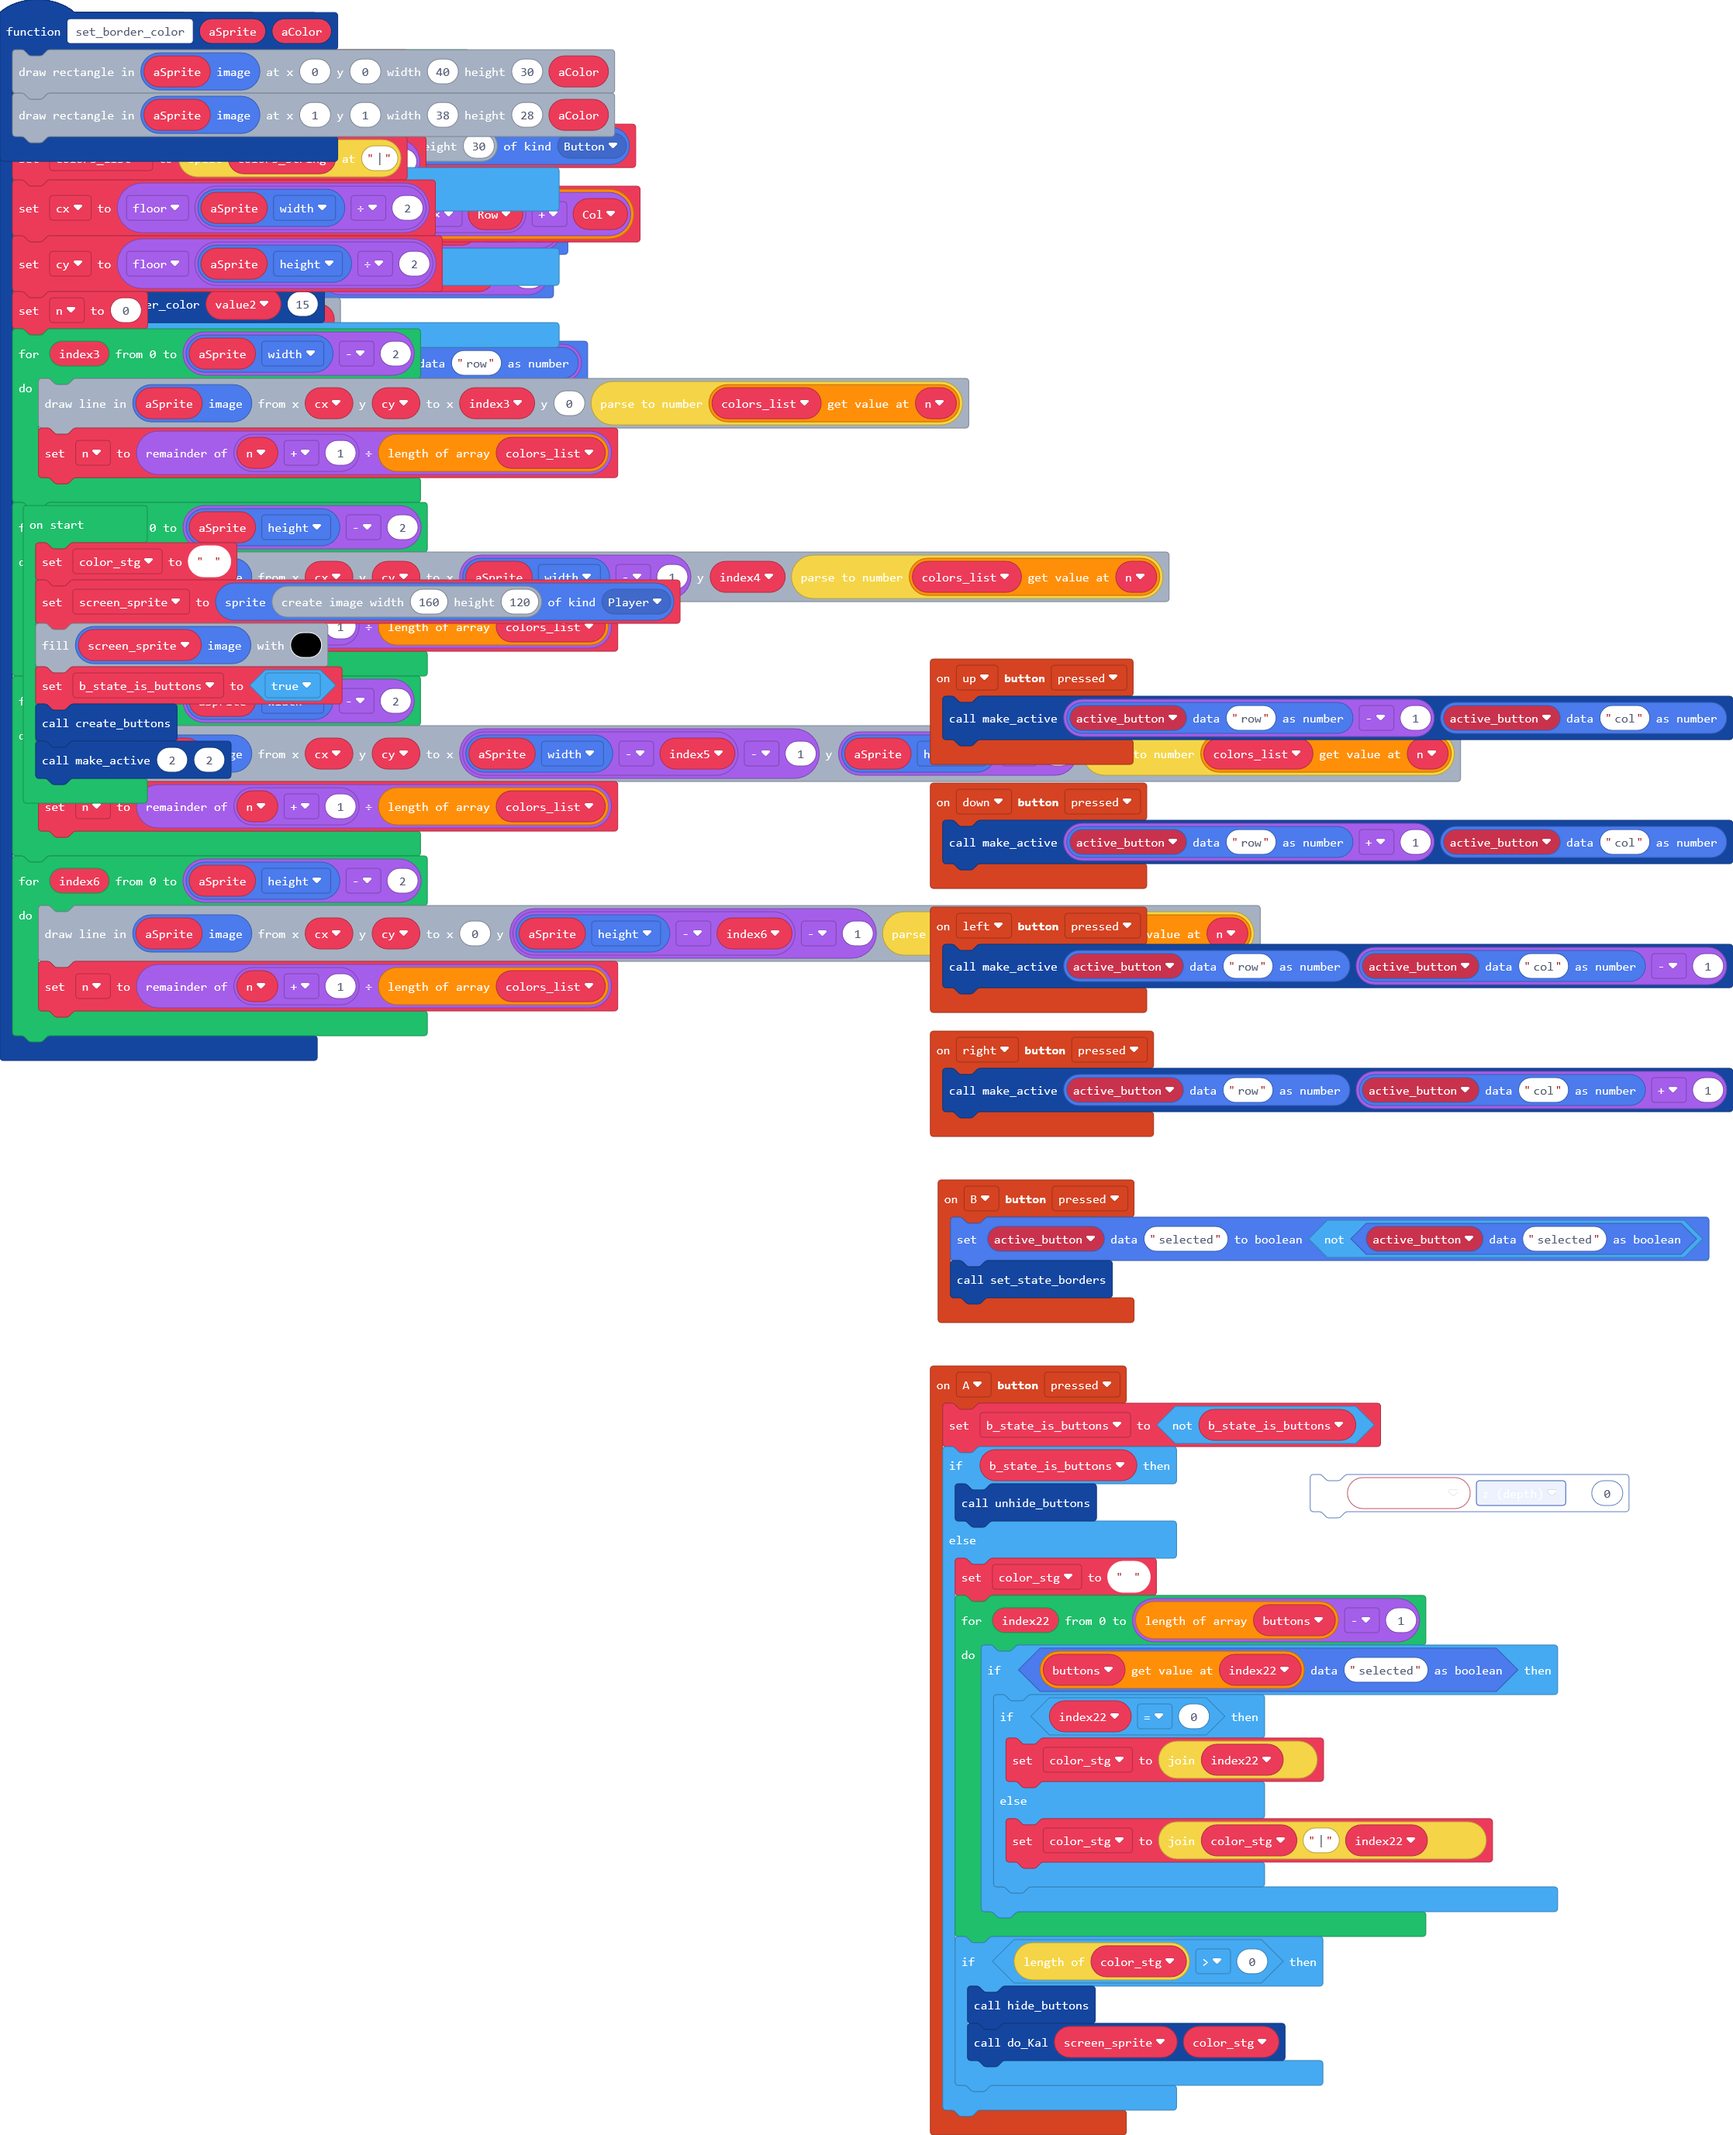
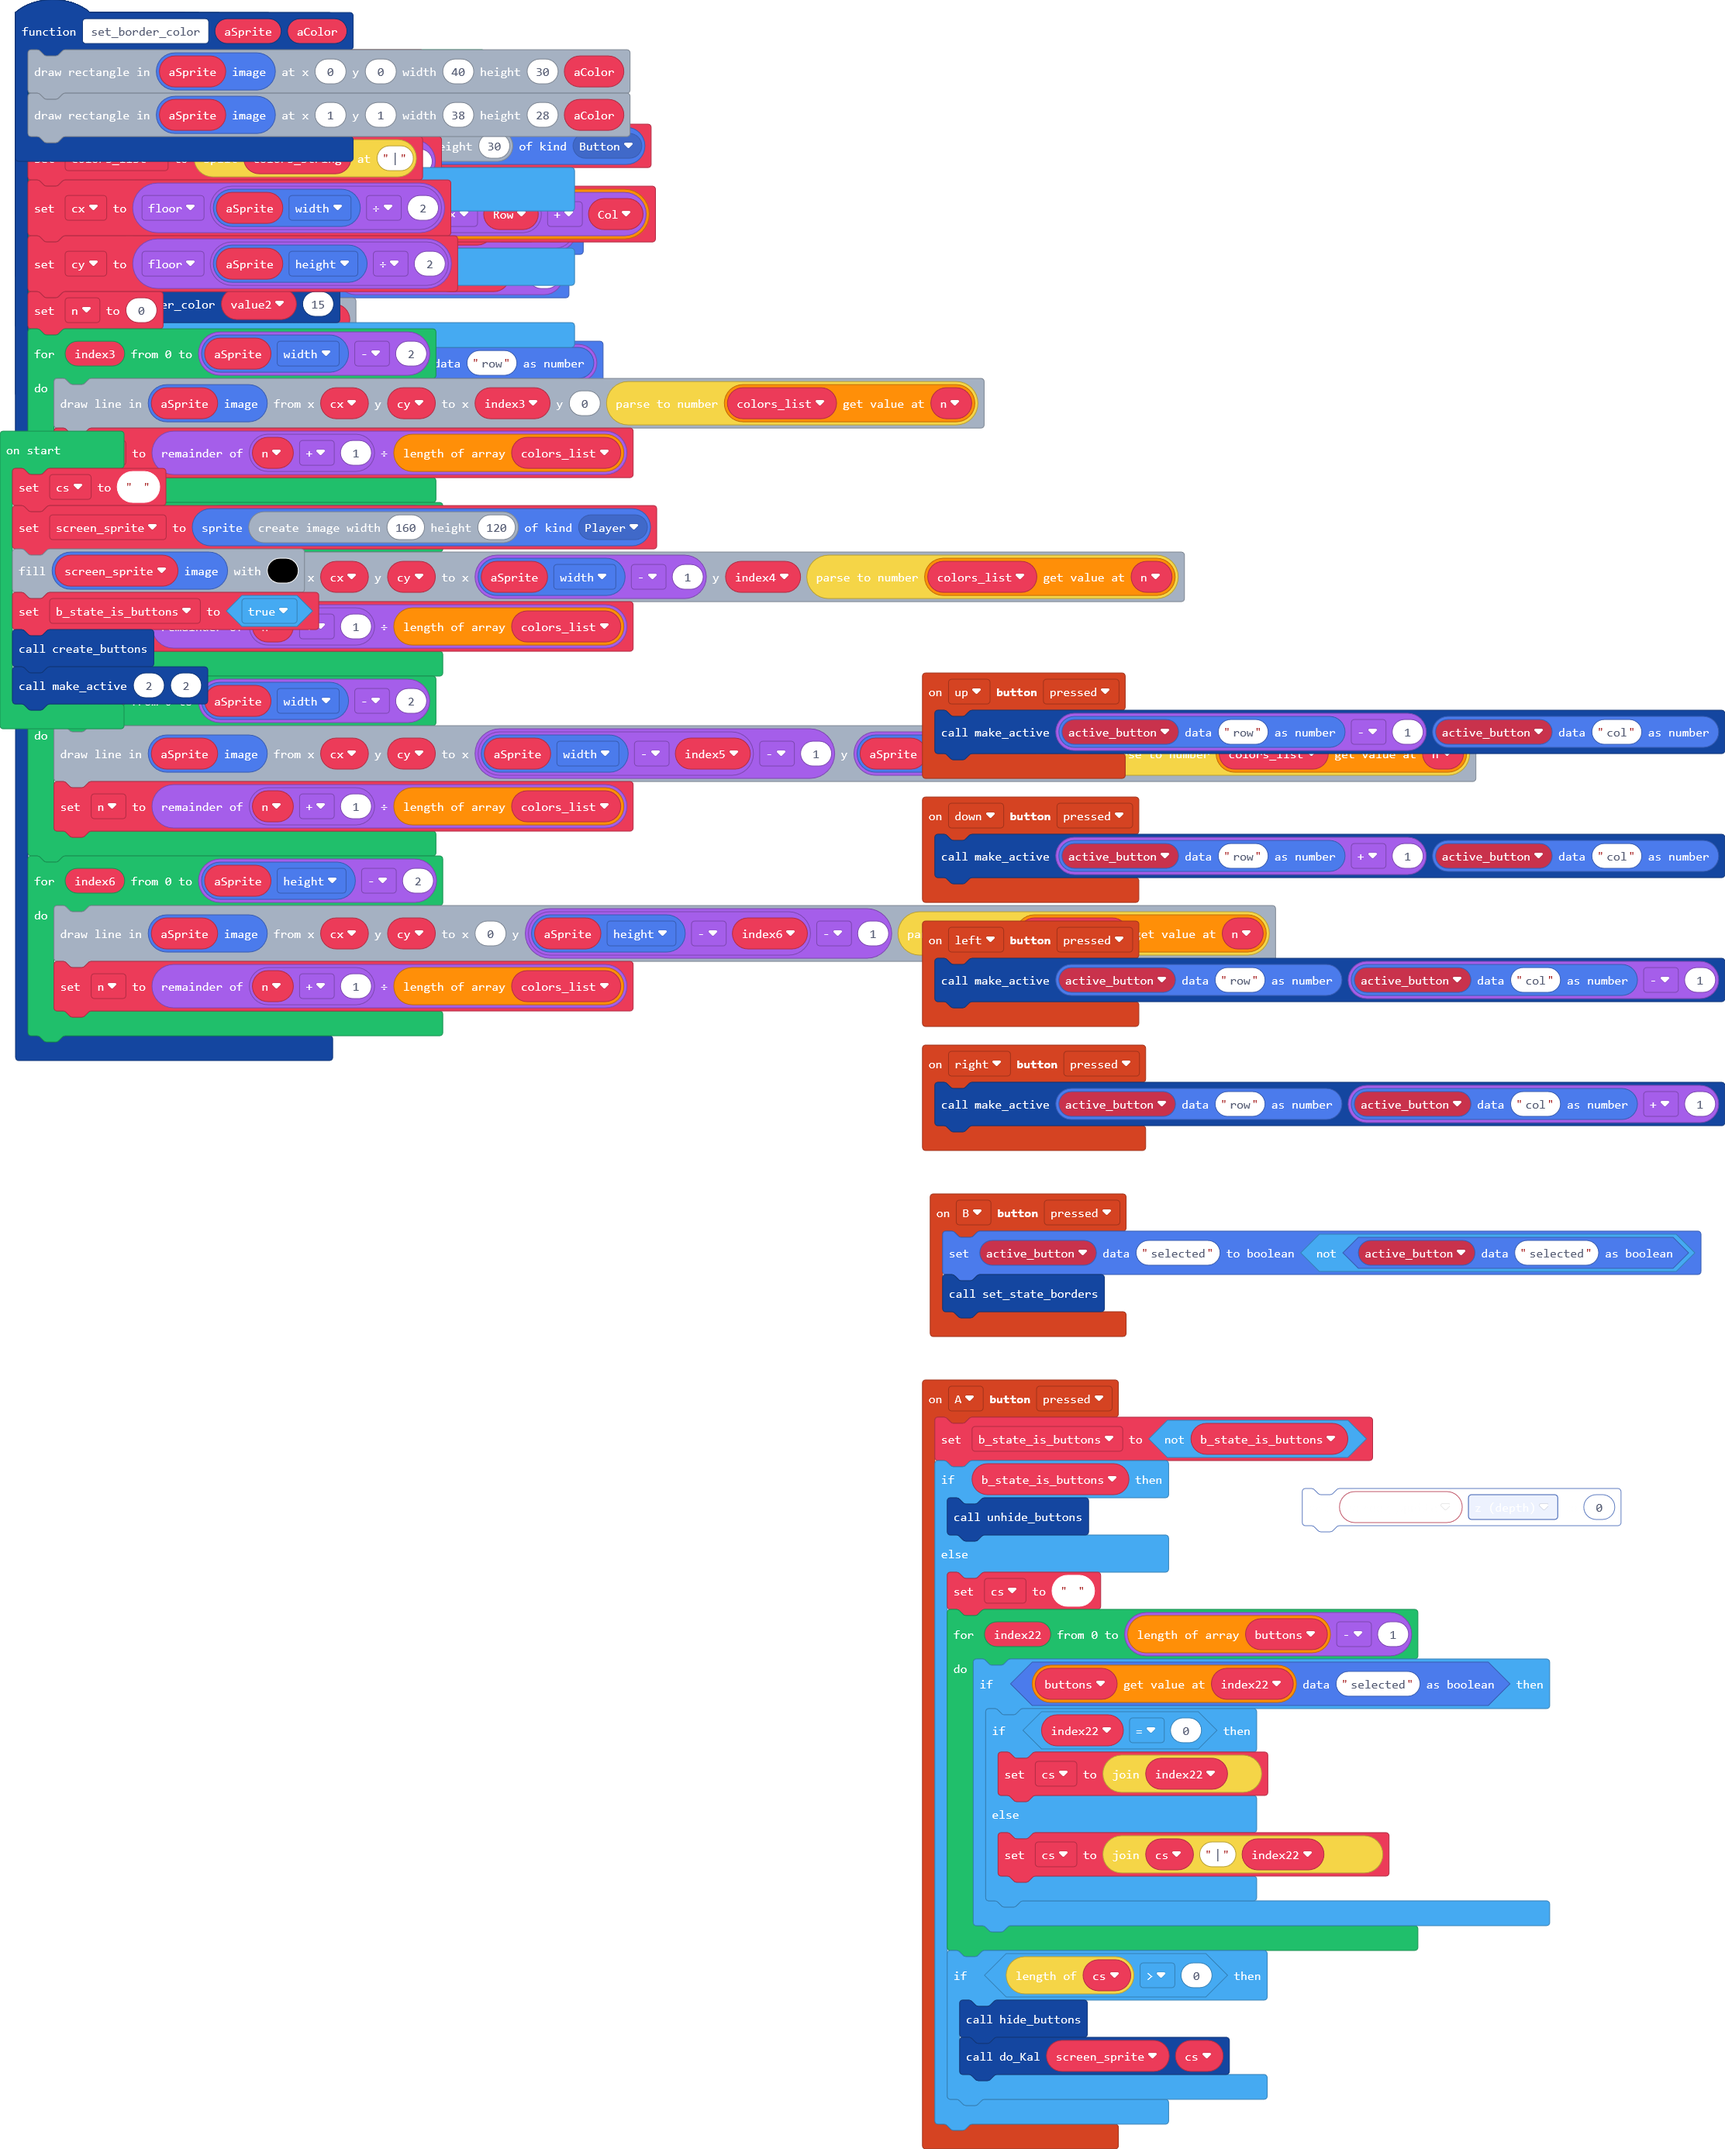
Update pxt.json, main.blocks, main.ts

Changed region(s): [[0.0, 0.0, 1.0, 0.9993], [0.8683, 0.8744, 0.8993, 0.9056]]

diff --git a/main.ts b/main.ts
@@ -86,19 +86,19 @@ controller.A.onEvent(ControllerButtonEvent.Pressed, function () {
     if (b_state_is_buttons) {
         unhide_buttons()
     } else {
-        color_stg = ""
+        cs = ""
         for (let index22 = 0; index22 <= buttons.length - 1; index22++) {
             if (sprites.readDataBoolean(buttons[index22], "selected")) {
                 if (index22 == 0) {
-                    color_stg = "" + index22
+                    cs = "" + index22
                 } else {
-                    color_stg = "" + color_stg + "|" + index22
+                    cs = "" + cs + "|" + index22
                 }
             }
         }
-        if (color_stg.length > 0) {
+        if (cs.length > 0) {
             hide_buttons()
-            do_Kal(screen_sprite, color_stg)
+            do_Kal(screen_sprite, cs)
         }
     }
 })
@@ -123,8 +123,8 @@ let a_button: Sprite = null
 let buttons: Sprite[] = []
 let b_state_is_buttons = false
 let screen_sprite: Sprite = null
-let color_stg = ""
-color_stg = ""
+let cs: string = []
+cs = ""
 screen_sprite = sprites.create(image.create(160, 120), SpriteKind.Player)
 screen_sprite.image.fill(15)
 b_state_is_buttons = true
